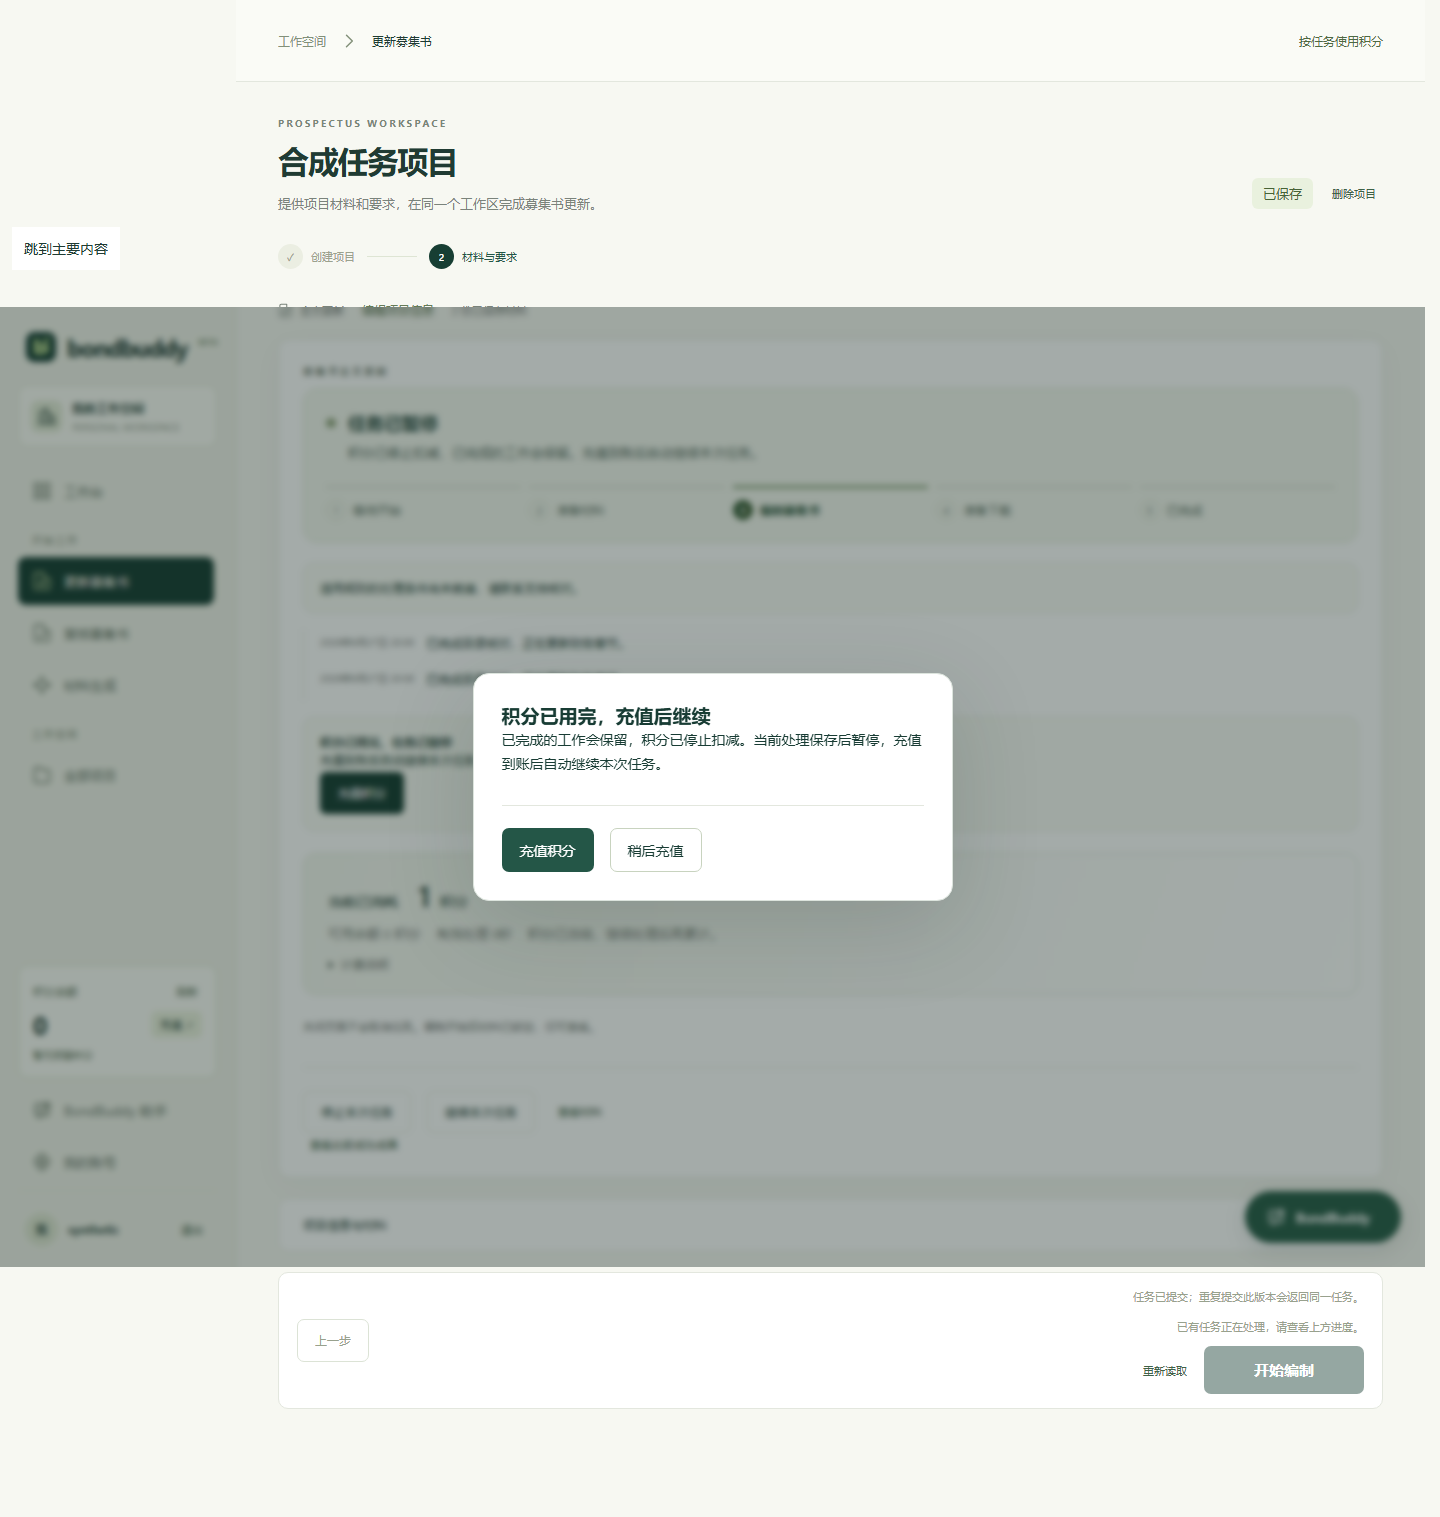
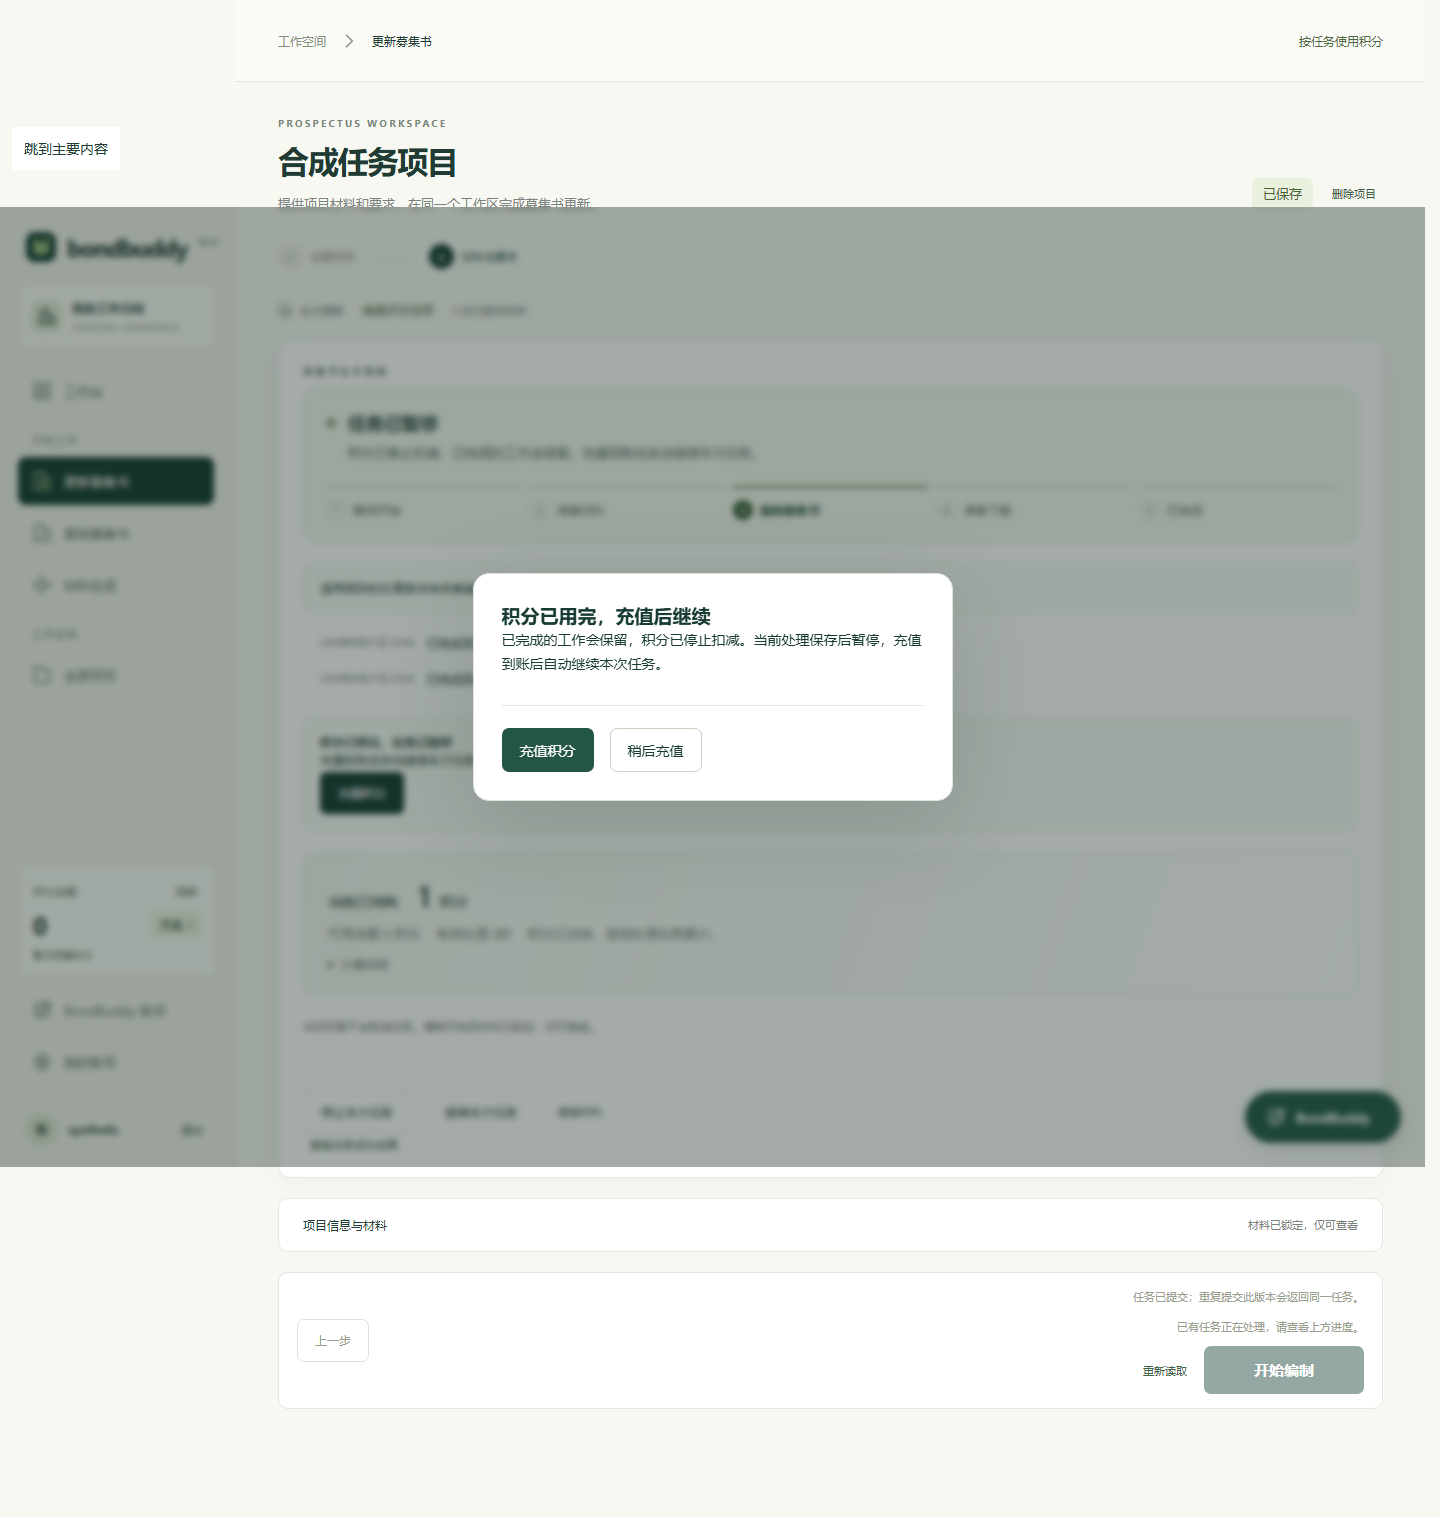
fix(billing): keep recharge requeue free of pre-pause excess

diff --git a/apps/api/src/authoring-progress.ts b/apps/api/src/authoring-progress.ts
@@ -27,7 +27,12 @@ export async function syncAuthoringProgress(c:PoolClient,r:any,next?:{state:stri
   // Completing an in-flight operation after pause cannot increase the frozen bill.
   const work=Math.max(m.work_bps,!j.user_pause_requested&&!j.credit_pause_requested&&(next?.reason==='checkpoint_saved'||next?.reason==='stage_completed')?(milestones[next.stage??'']??0):0);
   const reservation=r.reservation_id?(await c.query('SELECT points,billing_policy FROM bb_credit_reservations WHERE id=$1 AND owner_user_id=$2',[r.reservation_id,r.owner_user_id])).rows[0]:null;
-  const amount=Math.max(Number(m.accrued_points),accruedAuthoringPoints(Number(reservation?.points??0),active,work));
+  const price=Number(reservation?.points??0),calculated=accruedAuthoringPoints(price,active,work);
+  // An exhausted sample may cross the zero point. Discard that unfunded excess;
+  // topping up must not collect it while the saved task is still queued.
+  const amount=reservation?.billing_policy===DYNAMIC_AUTHORING_POLICY
+    ? Math.min(price,Number(m.accrued_points)+Math.max(0,calculated-accruedAuthoringPoints(price,Number(m.active_ms),Number(m.work_bps))))
+    : Math.max(Number(m.accrued_points),calculated);
   const debit=reservation?.billing_policy===DYNAMIC_AUTHORING_POLICY
     ? await debitAuthoringCredits(c,r,j.credit_pause_requested?Number(m.accrued_points):amount) : null;
   const exhausted=!!debit && debit.available===0 && debit.charged<debit.ceiling;

diff --git a/packages/contracts/src/index.ts b/packages/contracts/src/index.ts
@@ -407,7 +407,7 @@ export const operations: readonly Operation[] = [
   op('get', '/runs/{run_id}/events', 'Read events after cursor (contract only)', 'RunEventsResponse', 200, undefined, [404]),
   op('post', '/runs/{run_id}/cancel', 'Cancel server run explicitly (contract only)', 'RunResponse', 200, 'RunActionRequest', [404, 409]),
   op('post', '/runs/{run_id}/pause', 'Freeze accrued authoring credits and pause at a durable boundary', 'RunResponse', 200, 'RunActionRequest', [404, 409]),
-  op('post', '/runs/{run_id}/resume', 'Resume paused run after provider reconciliation (contract only)', 'RunResponse', 200, 'RunActionRequest', [404, 409]),
+  op('post', '/runs/{run_id}/resume', 'Resume the saved run after its blockers clear; exhausted credits require a positive balance', 'RunResponse', 200, 'RunActionRequest', [402, 404, 409]),
   op('get', '/artifacts/{artifact_id}', 'Get authorized checked Word artifact', 'ArtifactResponse', 200, undefined, [404]),
   op('get', '/projects/{project_id}/artifacts', 'List bounded, checked owner/project Word result history; no download grants', 'ArtifactHistoryResponse', 200, undefined, [404, 422, 503]),
   op('get', '/artifacts/{artifact_id}/download', 'Download checked owner Word artifact bytes', 'ArtifactResponse', 200, undefined, [404]),

diff --git a/apps/api/src/authoring-dynamic-balance.pg.test.ts b/apps/api/src/authoring-dynamic-balance.pg.test.ts
@@ -77,6 +77,7 @@ test('dynamic billing: one point starts, exhaustion pauses, topup resumes same c
    await Promise.all([fund(7,'one-topup'),fund(7,'one-topup')]);
    assert.deepEqual(await creditBalance(pool,owner),{available:7,frozen:0});
    assert.equal(await resumePausedRun(pool,owner,r.run_id,'credits_recharged'),true);
+   assert.equal((await creditBalance(pool,owner)).available,7,'requeue after payment cannot collect unfunded pre-pause excess');
    assert.equal(await resumePausedRun(pool,owner,r.run_id,'credits_recharged'),false);
    const resumed=await claim(pool);assert.ok(resumed);assert.equal(resumed.runId,r.run_id);
    assert.equal((resumed.checkpoint.stages as any).model_generation.logical_call_id,'durable-synthetic-result');

diff --git a/apps/web/test-evidence/dynamic-credit-start/README.md b/apps/web/test-evidence/dynamic-credit-start/README.md
@@ -1,6 +1,6 @@
 # 动态余额与同任务续跑验证
 
-本次界面直接按用户 2026-10-11 的截图和要求实现，原型为 `product-prototype/public/authoring-dynamic-balance.html`；基于 develop `ffa249d0`，提交前同步原稿表单压缩改动。截图与本次 PR 源码一起保存；没有独立人工签认。原型省略既有导航和材料区，运行卡、充值弹窗、余额与恢复文案一致。
+本次界面直接按用户 2026-10-11 的截图和要求实现，原型为 `product-prototype/public/authoring-dynamic-balance.html`；基于 develop `ffa249d0`，提交前同步原稿表单压缩改动；最终前端源码与原型为 dc08510c，最新 develop 合并后重建和 3 项启动/充值回归通过。截图与本次 PR 源码一起保存；没有独立人工签认。原型省略既有导航和材料区，运行卡、充值弹窗、余额与恢复文案一致。
 
 | 尺寸 / 状态 | 原型 | 实现 |
 | --- | --- | --- |
@@ -19,3 +19,5 @@
 - 原型四个尺寸/状态组合无脚本错误和横向溢出，页面使用真实模态 dialog，支持稍后充值与键盘退出。
 
 发布限制：本轮只读查询 Azure 现有管理命令仍为 Creating/Updating，executionState 与 exitCode 均无返回。未发布三端及 0104 迁移，未宣称线上验收。必须按产品决定协调 API、所有相关 worker、数据库和 web；不得仅发布前端。
+
+GitHub PR #688 的四项 CI 均未启动：已逐项读取 annotation，原因是账户付款失败或额度限制，不是已执行测试报错。本地通过不等同于云端 CI 通过。
